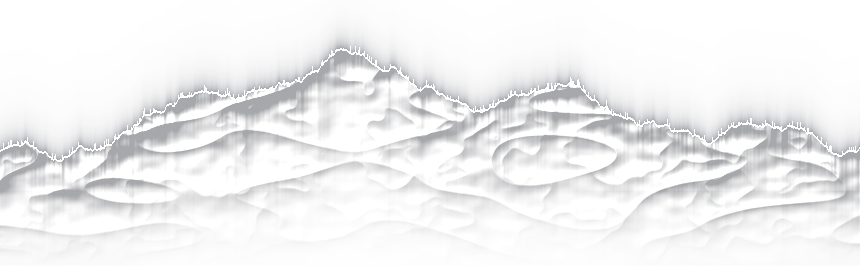
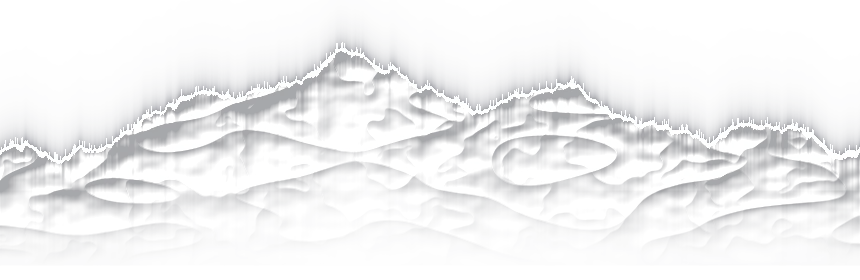
Nền giống mẫu: giấy xám vân dọc, nền trắng cho lưu bút/lời nhắn, mép xé viền trắng dày

diff --git a/assets/invite.css b/assets/invite.css
@@ -4,7 +4,8 @@
   --slate: #334155;
   --gray: #6c6f7f;
   --outside: #f6f6f1;
-  --paper: #efece5;
+  --paper: #eaebed;
+  --plain: #f8fafc;
   --w: min(100vw, 430px);
   --u: calc(var(--w) / 375);
   --tearH: calc(var(--w) * 280 / 860);
@@ -26,11 +27,13 @@ button { font: inherit; }
   animation: silk-sheen 9s ease-in-out infinite;
 }
 .silk > * { position: relative; z-index: 1; }
-.paper { background: var(--paper) url(bg/paper.webp) 0 calc(-1 * var(--tearH)) / 100% auto repeat-y; }
+.paper { background: var(--paper) url(bg/paper.webp) 0 calc(-1 * var(--tearH)) / 256px; }
+.plain { background: var(--plain); }
 
-/* mép giấy xé: .tear là phần giấy (cùng ảnh nền, khoét theo mask), .tear-fx là nếp nhàu + bóng đổ */
+/* mép giấy xé: .tear là phần giấy (cùng nền với section, khoét theo mask), .tear-fx là nếp nhàu + viền trắng + bóng đổ */
 .tear, .tear-fx { position: absolute; left: 0; width: 100%; height: var(--tearH); top: 1px; transform: translateY(-100%); pointer-events: none; z-index: 4; }
-.tear { background: var(--paper) url(bg/paper.webp) 0 0 / 100% auto repeat-y; -webkit-mask-size: 100% 100%; mask-size: 100% 100%; -webkit-mask-repeat: no-repeat; mask-repeat: no-repeat; }
+.tear { background: var(--paper) url(bg/paper.webp) 0 0 / 256px; -webkit-mask-size: 100% 100%; mask-size: 100% 100%; -webkit-mask-repeat: no-repeat; mask-repeat: no-repeat; }
+.plain > .tear { background: var(--plain); }
 .tear-fx { background: center / 100% 100% no-repeat; z-index: 5; }
 .tear.flip, .tear-fx.flip { top: auto; bottom: 1px; transform: translateY(100%); }
 

diff --git a/assets/invite.js b/assets/invite.js
@@ -115,7 +115,7 @@
       ${safeUrl(D.wide) || show ? photo(D.wide, "wide-photo") : `<div class="gap-photo paper"></div>`}
 
       ${filmSlots.length || safeUrl(D.filmBig) || show ? `
-      <section class="sec youth paper" data-tear>
+      <section class="sec youth paper">
         <div class="youth-title" data-tear="bottom">
           <div ${A("s1", "fade-in-left", 1.5)}>${esc(D.youthTitle1)}</div>
           <div ${A("s2", "fade-in-right", 1.5)}>${esc(D.youthTitle2)}</div>
@@ -139,7 +139,7 @@
       </section>
 
       ${letter ? `
-      <section class="sec letter paper" data-tear>
+      <section class="sec letter plain" data-tear>
         <h2 ${A("sec-title", "pop", 1.3)}>LƯU BÚT</h2>
         <div ${A("letter-body", "blur-in", 1)}>${letter}</div>
         <div ${A("sign", "blur-in", 2.3)}>${esc(D.signature || D.name)}</div>
@@ -151,7 +151,7 @@
         <div class="album-grid">${albumHtml}</div>
       </section>` : ""}
 
-      <section class="sec wish paper" data-tear>
+      <section class="sec wish plain" data-tear>
         <h2 ${A("sec-title", "pop", 1.3)}>${esc(D.wishTitle)}</h2>
         <form id="wishForm" autocomplete="off">
           <input name="n" maxlength="60" placeholder="Tên của bạn là?" required>
